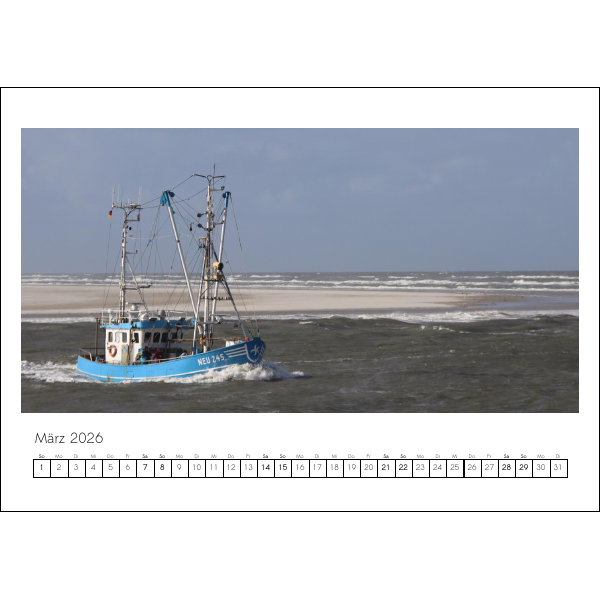
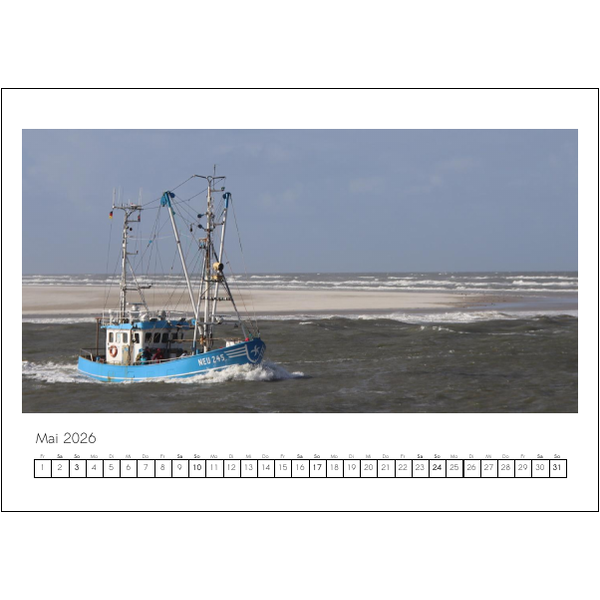
Added new template 26S

diff --git a/web/creator/templates/creator/start.html b/web/creator/templates/creator/start.html
@@ -25,6 +25,8 @@
         {% include "creator/card_template.html" with title="Vintage" format="V" %}
         {% include "creator/card_template.html" with title="Design 2026" format="26" %}
         {% include "creator/card_template.html" with title="Design 2026 (Querformat)" format="26L" %}
+        {% include "creator/card_template.html" with title="Design 2026 (2-Seitig)" format="26S" %}
+
 
         <!-- Start Date Modal -->
         <div class="modal fade" id="start-date-modal" tabindex="-1" aria-labelledby="start-date-modal-label" aria-hidden="true">

diff --git a/web/creator/fotocalendar/templates/design2026.py b/web/creator/fotocalendar/templates/design2026.py
@@ -1,30 +1,37 @@
 from creator.fotocalendar.fotocalendar import FotoCalendar
 from creator.fotocalendar.bo.config import DefaultConfig
+from fpdf.drawing_primitives import convert_to_device_color, DeviceRGB
 
 
 class Design2026FotoCalendar(FotoCalendar):
 
     _font = "NotoSansDisplay"
+    _is_landscape = False
+    _is_schedule = False
 
-    def __init__(self, landscape=False):
-        if landscape:
+    _fill_colors = [ "#F0F0F0", "#E0E0E0", "#D0D0D0" ]
+
+    def __init__(self, landscape=False, schedule=False):
+        if schedule:
+            super().__init__("L", 0, 297, 185)
+            self._is_schedule = True
+        elif landscape:
             super().__init__("L", 0, 186, 210)
-            self.is_landscape = True
+            self._is_landscape = True
         else:
             super().__init__("P", 0, 210, 180)
-            self.is_landscape = False
         self.tmargin = 0
         self._add_font("Pacifico")
 
     def get_default_config(self, date=None) -> DefaultConfig:
         config = super().get_default_config(date)
-        config.show_weeks = False
+        config.show_weeks = self._is_schedule
         config.month_show_year = False
         config.supports_italic = False
         config.month_align = 'C'
 
         config.table_background_color = "#85ace6"
-        config.fonts.month.size = 60 if self.is_landscape else 75
+        config.fonts.month.size = 60 if self._is_landscape else 75
         config.fonts.month.family = "Pacifico"
         config.fonts.month.color = '#C8C8C8'
         config.fonts.weekday.size = 14
@@ -36,15 +43,28 @@ class Design2026FotoCalendar(FotoCalendar):
         pdf = self.fpdf
         config.fonts.month.color = config.table_background_color
 
-        y = 85 if self.is_landscape else self.image_height - 8.7
+        y = 85 if self._is_landscape else self.image_height - 8.7
         pdf.set_y(y)
         self._add_month_name(config)
 
+
         line_height = 11.5
-        col_width = 13 if self.is_landscape else 25
-        if self.is_landscape:
+        border = 0
+        align = "C"
+        if self._is_landscape:
+            col_width = 13
             pdf.set_margins(self.image_width + 10, 20, 10)
         else:
+            if self._is_schedule:
+                pdf.add_page()
+                y = 0
+                col_width = 38
+                line_height = 25
+                pdf.c_margin = 5
+                border = 1
+                align = "R"
+            else:
+                col_width = 25
             pdf.set_margins((pdf.w - 7 * col_width) / 2, 20)
 
         x = pdf.get_x() + col_width / 2
@@ -55,16 +75,29 @@ class Design2026FotoCalendar(FotoCalendar):
         pdf.set_y(y + 50)
         weeks = self.__toWeekMatrix(matrix)
         events = []
+       
         for weekId in weeks:
             for dayId in weeks[weekId]:
                 day = weeks[weekId][dayId]
                 txt = ''
+                self._set_font_for_day(day, config)
                 if day:
-                    self._set_font_for_day(day, config)
                     txt = day.day
                     if len(day.events) > 0:
                         events.append(day.day + ". " + config.event_serparator.join(day.events))
-                pdf.cell(col_width, line_height, txt=txt, border='BT' if config.table_border else 0, align="C", new_y="TOP")
+
+                fill_color = None
+
+                if day and self._is_schedule:
+                    if day.is_saturday:
+                        fill_color = self._fill_colors[1]
+                    elif day.is_sunday:
+                        fill_color = self._fill_colors[2]
+                    else:
+                        fill_color = self._fill_colors[0]
+
+                with pdf.local_context(line_width=2, draw_color="#ffffff", fill_color=fill_color):
+                    pdf.cell(col_width, line_height, txt=txt, border=border, fill=fill_color is not None, align=align, new_y="TOP")
 
             if config.show_weeks:
                 self._set_font(config.fonts.week)
@@ -72,10 +105,27 @@ class Design2026FotoCalendar(FotoCalendar):
 
             pdf.ln()
 
+    def _add_schedule(self, config, matrix, col_width, line_height):
+        pdf = self.fpdf
+        pdf.add_page()
+        pdf.set_y(pdf.get_y() + 50)
+        for day in range(1, 32):
+            events = []
+            for weekId in range(1, 7):
+                if weekId in matrix and day in matrix[weekId]:
+                    dayObj = matrix[weekId][day]
+                    if dayObj:
+                        events.extend(dayObj.events)
+
+            txt = str(day) + ". " if day <= 31 else ""
+            if len(events) > 0:
+                txt += config.event_serparator.join(events)
+            pdf.cell(col_width, line_height, txt=txt, border='BT' if config.table_border else 0, align="L", new_y="TOP")
+
     def _add_month_name(self, config):
-        y = self.fpdf.get_y() - (45 if self.is_landscape else 1.2)
+        y = self.fpdf.get_y() - (45 if self._is_landscape else 1.2)
         x = self.fpdf.w - 10
-        if self.is_landscape:
+        if self._is_landscape:
             self.fpdf.set_x(self.image_width)
             super()._add_month_name(config, self.fpdf.w - self.image_width)
         else:

diff --git a/web/creator/fotocalendar/creator.py b/web/creator/fotocalendar/creator.py
@@ -41,6 +41,9 @@ def create_for_format(format: str) -> FotoCalendar:
     elif format == "26L":
         print("Creating Design2026FotoCalendar (landscape) for format", format)
         return Design2026FotoCalendar(True)
+    elif format == "26S":
+        print("Creating Design2026FotoCalendar (schedule) for format", format)
+        return Design2026FotoCalendar(False, True)
     else:
         print("Creating PortraitFotoCalendar for format", format)
         return PortraitFotoCalendar()
@@ -169,6 +172,10 @@ def create_preview_from_request(request) -> FotoCalendar:
             x = 300
             y = 0
             w = 1000
+        elif format == "26S":
+            x = 304
+            y = 190
+            w = 1400
 
         h = w / float(config.months[0].image_aspect_ratio)
         config.months[0].set_image(image.crop((x, y, x + w, y + h)))

diff --git a/web/creator/fotocalendar/bo/config.py b/web/creator/fotocalendar/bo/config.py
@@ -53,7 +53,7 @@ class FontsConfig:
 
     def __post_init__(self, font_family: str):
         self.weekday = FontConfig(size=15, family=font_family)
-        self.saturday = FontConfig(size=15, family=font_family, bold=True)
+        self.saturday = FontConfig(size=15, family=font_family)
         self.sunday = FontConfig(size=15, family=font_family, bold=True)
         self.event = FontConfig(size=8, family=font_family)
         self.month = FontConfig(size=20, family=font_family)

diff --git a/web/creator/fotocalendar/fotocalendar.py b/web/creator/fotocalendar/fotocalendar.py
@@ -305,7 +305,9 @@ class FotoCalendar:
         self.fpdf.set_text_color(config.color)
 
     def _set_font_for_day(self, day: DayConfig, config: MonthConfig):
-        if day.is_holiday:
+        if not day:
+            pass
+        elif day.is_holiday:
             self._set_font(config.fonts.events)
         elif day.is_sunday:
             self._set_font(config.fonts.sunday)

diff --git a/web/calendaronline/settings.py b/web/calendaronline/settings.py
@@ -85,7 +85,7 @@ USE_TZ = True
 # https://docs.djangoproject.com/en/4.1/howto/static-files/
 
 STATIC_URL = 'static/'
-STATIC_ROOT = BASE_DIR / 'static'
+STATIC_ROOT = BASE_DIR / 'creator/static/'
 
 # Default primary key field type
 # https://docs.djangoproject.com/en/4.1/ref/settings/#default-auto-field
